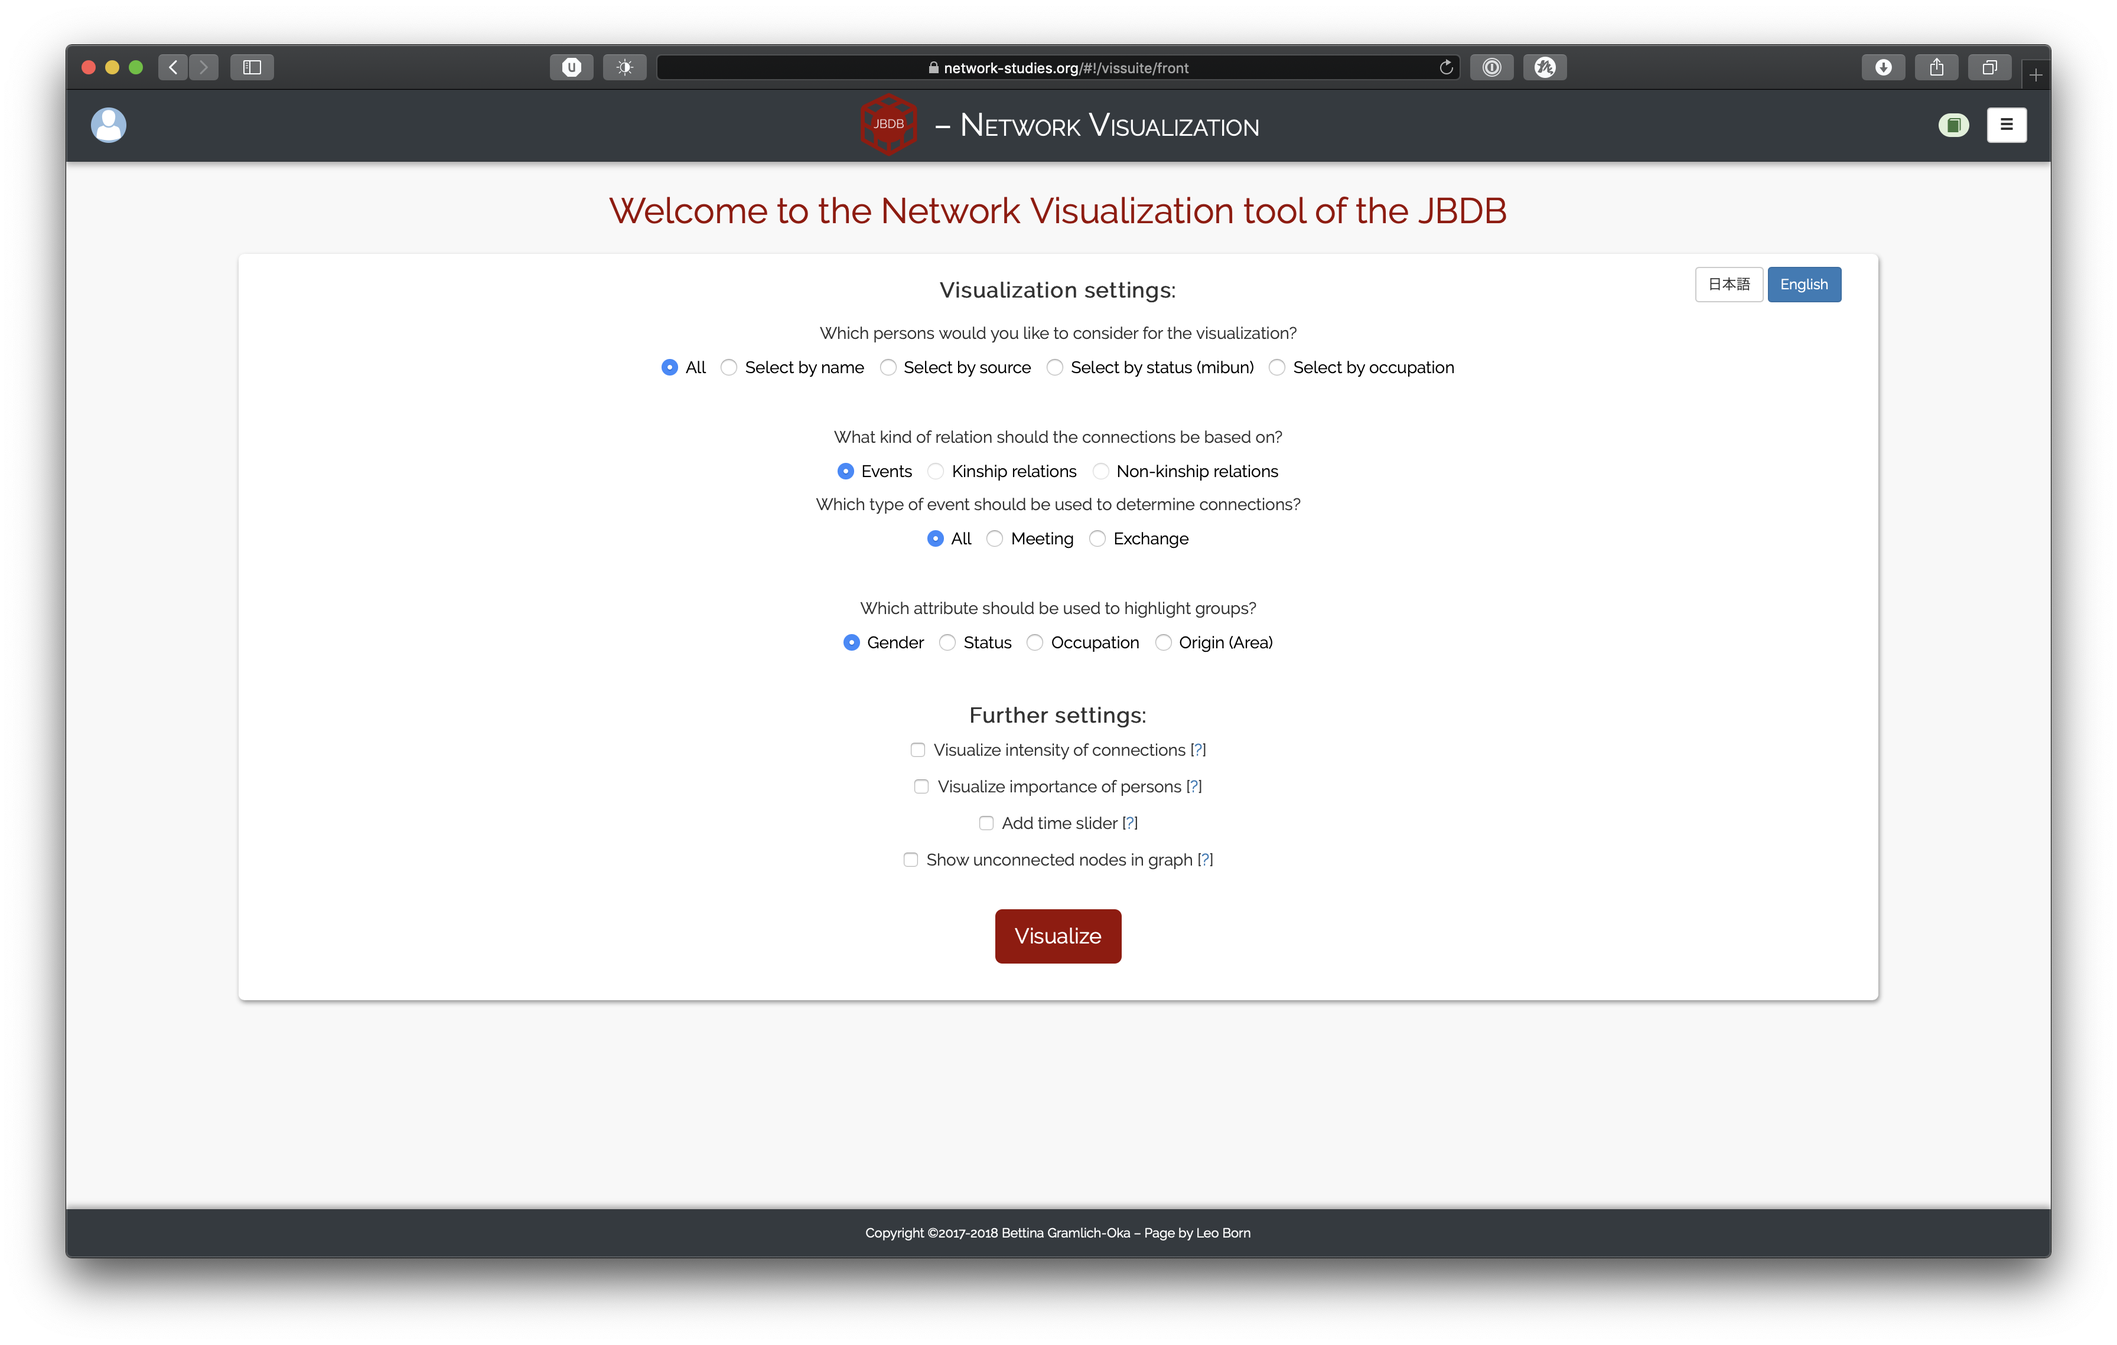
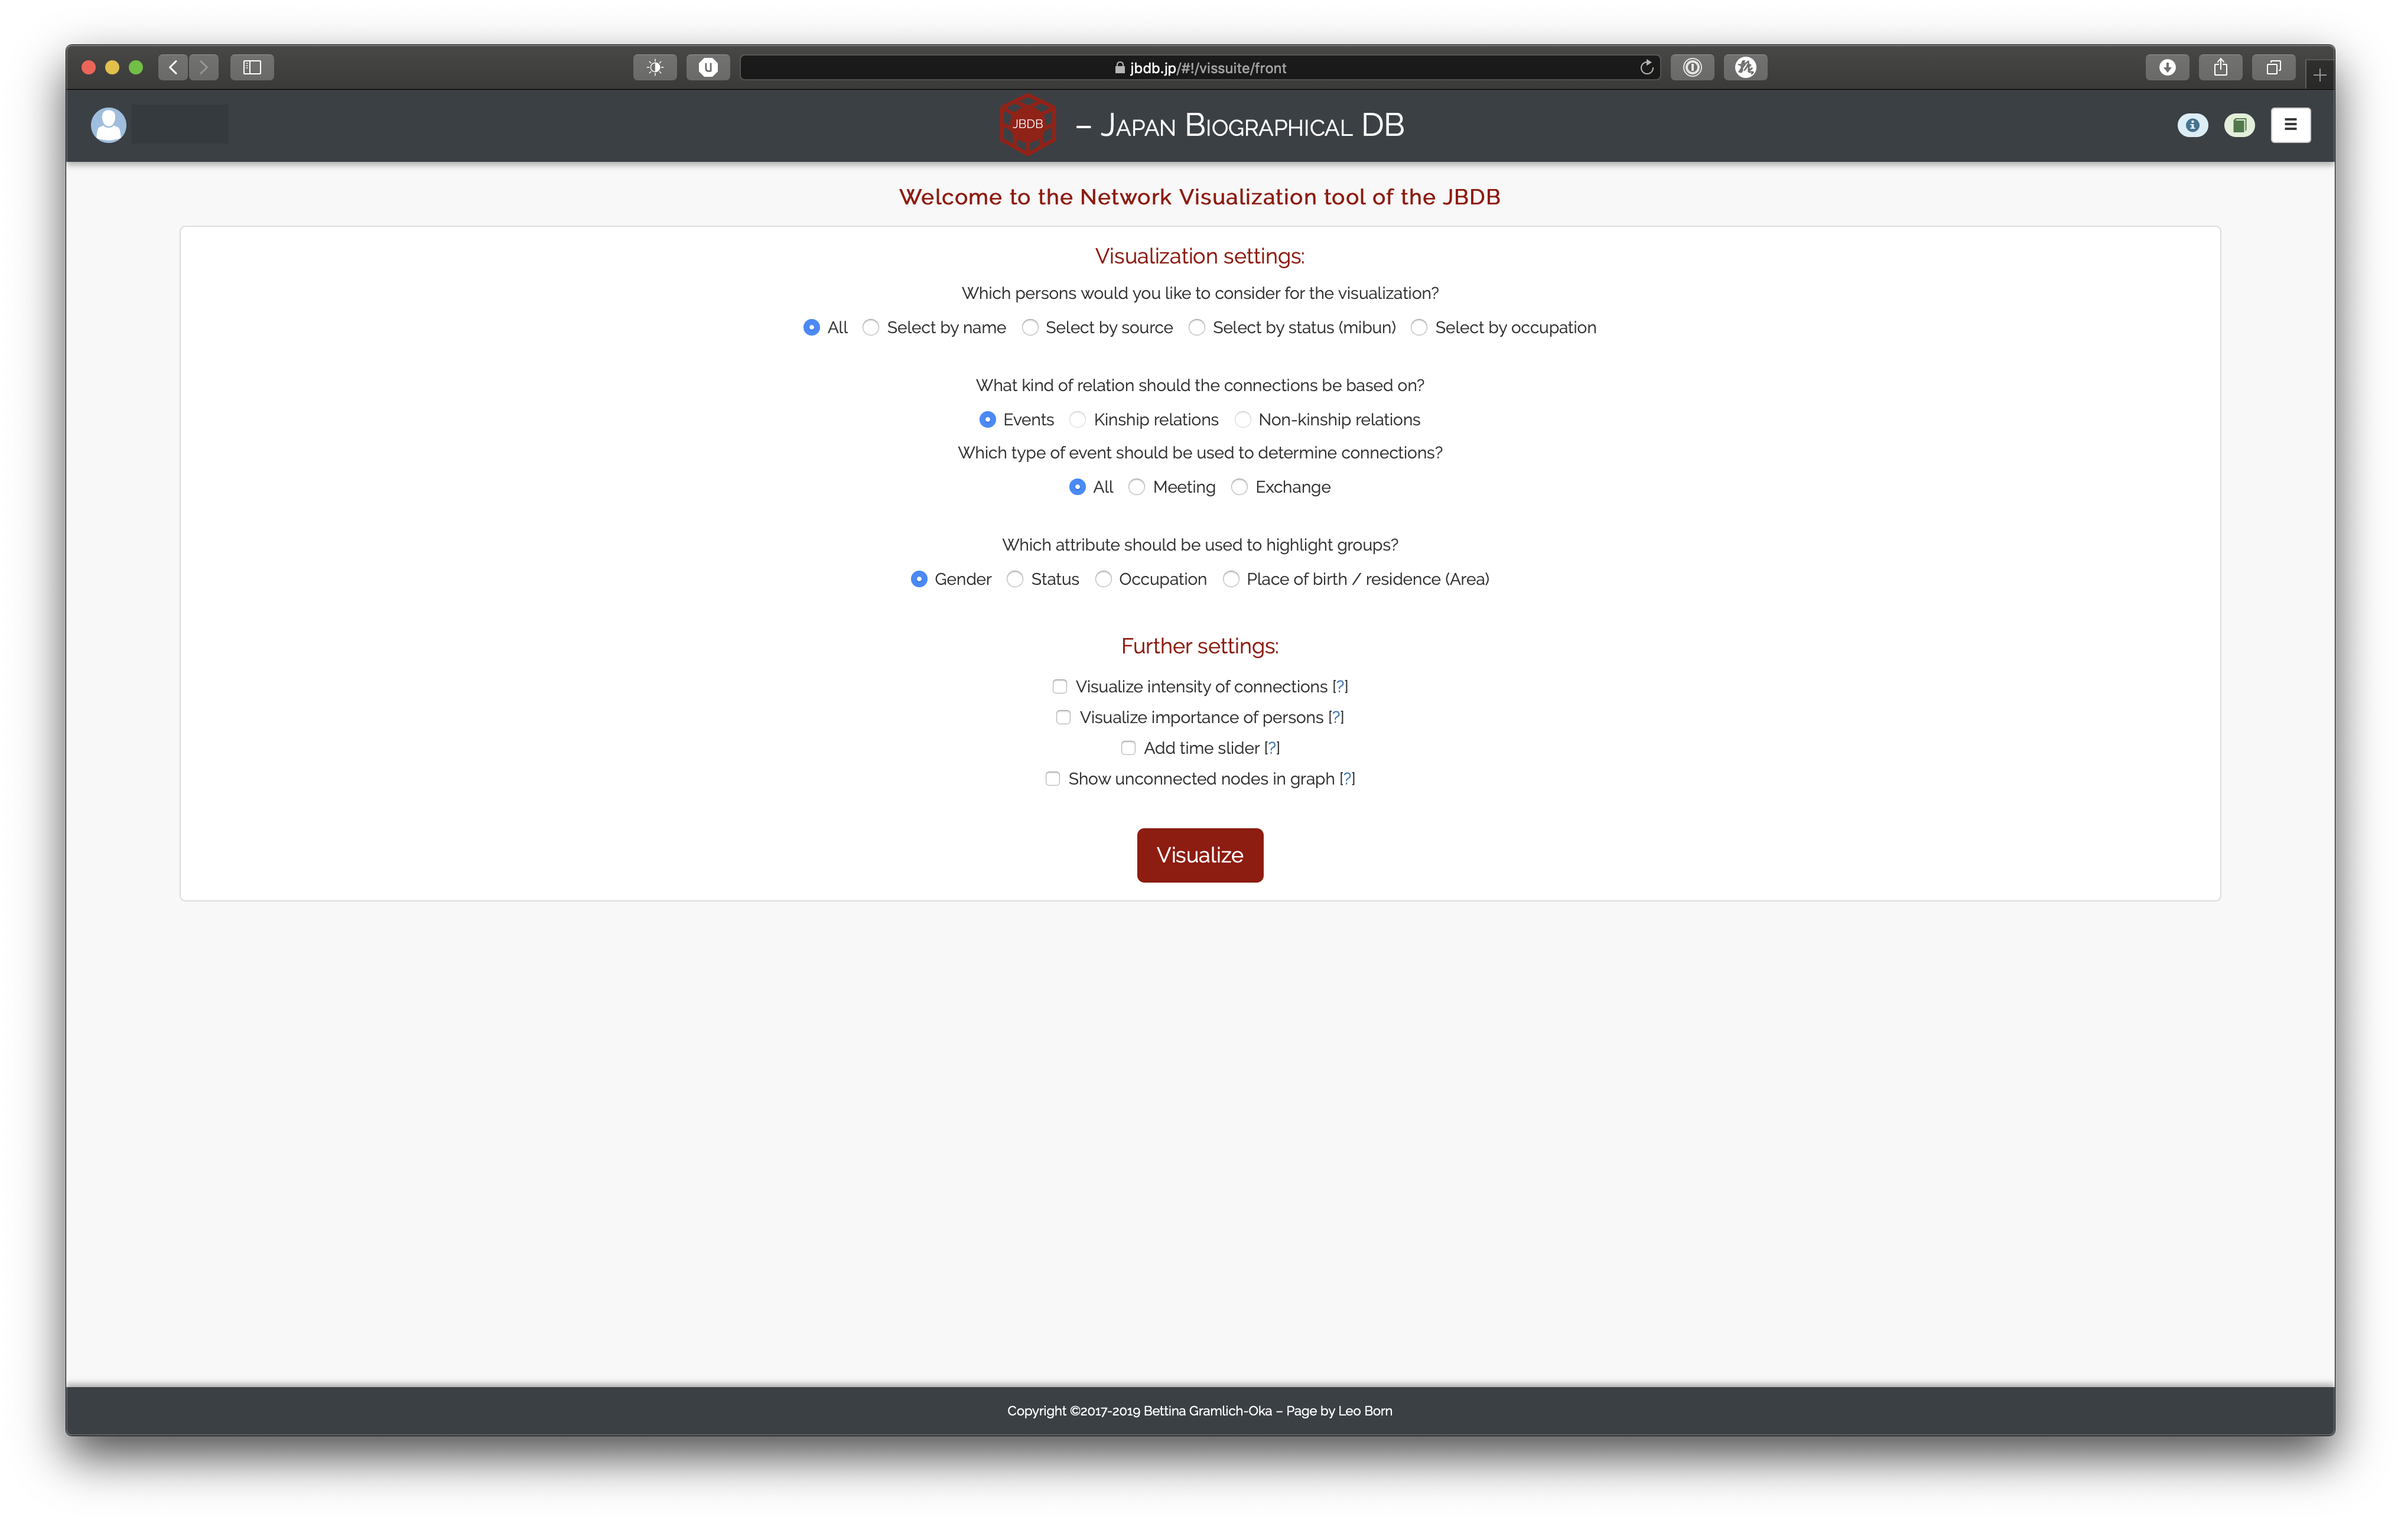
Completed vissettings manual

diff --git a/vissettings.md b/vissettings.md
@@ -9,16 +9,17 @@ subtitle: Settings
 1. [Who to visualize?](#who-to-visualize)
 2. [What to visualize?](#what-to-visualize)
 3. [How to visualize?](#how-to-visualize)
+4. [Examples](#examples)
 
 <br>
 
 ## Intro
 
-This page covers the functionality of the [visualization suite of the JBDB](https://network-studies.org/#!/vissuite/front) and the different ways these visualizations can be generated. When entering this view, you will be presented with the following settings page:
+This page covers the functionality of the [visualization suite of the JBDB](https://jbdb.jp/#!/vissuite/front) and the different ways these visualizations can be generated. When entering this view, you will be presented with the following settings page:
 
 ![Vissettings](../img/vissettings.png)
 
-Broadly speaking, there are three important sections to the settings view: the first concerns the persons one is interested in visualizing (who to visualize?); the second is about what to base the visualizations on (what to visualize?); and the third is concerned with how the visualizations should look in the end (how to visualize?).
+Broadly speaking, there are three important sections to the settings view: the first concerns the persons one is interested in visualizing ([who to visualize?](#who-to-visualize)); the second is about what to base the visualizations on ([what to visualize?](#what-to-visualize)); and the third is concerned with how the visualizations should look in the end ([how to visualize?](#how-to-visualize)).
 
 This section is therefore structured in a way to reflect these three broad questions.
 
@@ -53,13 +54,104 @@ As above, starting from these gathered persons, all connected persons are extrac
 
 ## What to visualize?<a name="what-to-visualize"></a>
 
-The next settings section is concerned with the underlying data that connections should be based on.
+The next settings section is concerned with the underlying data that connections should be based on. For this, the section allows to select events, kinship, or non-kinship relations as the source of visualization:
+
+![Vissettings 5](../img/vissettings-5.png)
+
+The app defaults to "Events", for which you can further specify whether "All" event types should be considered, or only any event of the type "Meeting" or "Exchange". In these cases, the app gets all events the _seed persons_ were part of and further gathers all other non-seed persons who partook in these events. This way, you get e.g. all persons with whom Rai Shunpū interacted (if "All" is set) or all persons with whom he exchanged goods or correspondences (if "Exchange" is set).
+
+---
+
+If you select (non-)kinship relations to be the base of the visualization, the app gets all associated (non-)kinship relations for the _seed persons_ and displays them in a tree-like hierarchical order. **Note** that (non-)kinship relations are not selectable if you set "All" in the [who to visualize?](#who-to-visualize) section.
+
+The finer selection works differently than for events. If you select (non-)kinship relations, you are presented with a slider as follows:
+
+![Vissettings 6](../img/vissettings-6.png)
+
+The slider allows you to set the maximal distance from the _seed persons_ of related persons. 1 indicates that only people directly related to the _seed persons_ are considered. For example, if we are interested in a family tree for Rai Shunsui, setting the distance to 1 would only include the persons with whom Rai Shunsui has kinship relations (as seen when displaying [his information page](https://jbdb.jp/#!/jbdb/database/person/0)).
+
+However, setting the distance to 2 now also considers persons with whom the related people of Rai Shunsui are related, even if they are not directly related to him. Similarly, increasing the distance will widen the scope of the resulting visualization.<sup id="a3">[3](#f3)</sup>
+
+### Notes on some limitations
+
+Note that for kinship relations, currently only relations spanning at most one level (e.g. sister, father, niece) are considered for the visualizations. Therefore, any relation spanning two or more levels (or generations), like _grandfather of_ are not supported due to computational limitations in determining the position of the persons within the hierarchy.
+
+Furthermore, there will only be displayed one relation between any two people in order to reduce clutter. If person **A** is the brother of person **B**, person **B** is automatically set to be the sibling (brother or sister) of person **A** as well (cf. [note on complementary relations](https://japan-biographical-db.github.io/persons/complementary-relations)). However, displaying both relations would not benefit the expressivity of the resulting visualizations. Therefore, we drop one of the two relations (at random).
+
+This also means that multiple different relations between any two people are also not considered. For example, if the niece **N** of some person **P** becomes the wife of said person **P**, we will ignore one of the two relations. While these relations are historically informed, they are currently too complex to handle in an efficient manner.
+
+Additionally, implicit relations are not considered as well, i.e. if the database contains information that person **C** is the father of person **D**, **D** is the father of **E**, but _does not_ contain explicit information that **C** is therefore the grandfather of **E**, the app does not attempt to induce this relation.
 
 ## How to visualize?<a name="how-to-visualize"></a>
 
+After determining what to visualize, we can concentrate on some means of changing the way data is visualized. The first selection component is fairly simple and allows you to choose an attribute that is used to group the persons by:
+
+![Vissettings 7](../img/vissettings-7.png)
+
+The selected attribute allows to show or hide these specific groups from the visualization in the [visualization view](https://japan-biographical-db.github.io/visualizations). Therefore, if you select "Gender" you can choose to only display all female persons in a network, or if you select "Occupation", you can choose to show all persons except scholars.
+
+The next selection of settings are fairly intuitive as well. **Note**, however, that these settings are not available when you base your visualization on (non-)kinship relations:
+
+![Vissettings 8](../img/vissettings-8.png)
+
+Selecting "Visualize intensity of connections" thickens edges (i.e. connections) between two people. The more connections there are between any two persons compared to the other connections, the thicker the edge between these persons will be drawn.
+
+Selecting "Visualize importance of persons" does something similar depending on the total number of connections of any single person. Therefore, if person **A** has more conncetions than person **B**, person **A** will be shown larger. If you select this, you can choose one of four different algorithms to determine the size of any person. Please refer to the help boxes (indicated by the question mark next to each algorithm) for details.
+
+The option "Add time slider" will add a temporal slider element to the visualization view. The dates considered for the slider are the first and last dates of the events used to determine the network. If you select this option, you can further choose wether Japanese or Western dates should be displayed.
+
+Selecting the previous two options thus looks as follows:
+
+![Vissettings 9](../img/vissettings-9.png)
+
+The last additional setting that is available for all visualizations based on events is "Show unconnected nodes in graph". This setting is available for all ways of selecting _seed persons_ _except_ "Select by name". Therefore, if the _seed persons_ are determined by a source you select, it could happen that some of the _seed persons_ have no connection in the database. Per default, any person without connection is not shown in the visualization; however, if you expressly wish to display even those singleton persons, you can do so by enabling this option.
+
+**Note** that this option is mutually exclusive with some of the above-mentioned three options:
+
+1. If you enable "Visualize importance of persons", "Show unconnected nodes in graph" becomes disabled (and vice versa)
+2. If you set "Add time slider", "Show unconnected nodes in graph" becomes disabled (and vice versa)
+
+### _Seed person_-specific settings
+
+If you select _seed persons_ by name or by source, additional settings specific to these selections become available. For "Select by name", the additional setting becomes available if you select more than two persons:
+
+![Vissettings 10](../img/vissettings-10.png)
+
+Enabling this will discard persons not in the _seed persons_ list. This is useful if you are only interested in the interactional network of just the persons you select.
+
+---
+
+For "Select by source", the following options become available:
+
+![Vissettings 11](../img/vissettings-11.png)
+
+**They are all mutually exclusive**, therefore only one can be enabled at most. The first setting, "Limit connections to person from source(s)" works similar to the person-specific setting mentioned above. That is, enabling this will only show persons for whom the selected source(s) were set and will discard any connections to persons outside the _seed persons_ list. With this setting, you could for example show only the interactions between all people who appear in the same source.
+
+The second setting considers persons beyond the _seed persons_ list again. This time, however, with the restriction that the underlying events for every connection must come from the source(s) you specified. For example, if you select a diary as the source and enable this setting, it visualizes the interactions described in the diary -- between all persons for whom the diary was set as the source (= _seed persons_) as well as people connected to the _seed persons_, even if the source was not used to create entries for the the other, non-seed persons.
+
+Lastly, the third setting combines the above two mechanisms. This is the most strict one as the resulting network only shows:
+
+1. People for whom the selected source(s) was/were used to create the entry (= _seed persons_)
+2. Connections that are based only on the selected source(s)
+
+Therefore, if you again select a diary for example, the network will show all persons whose biographical information comes from the diary and the connections between those persons will also only be based on interactions described in the diary.
+
+## Examples<a name="examples"></a>
+
+This section presents screenshots of networks resulting from different settings combinations. If you are interested in how to interact with the networks and see what you can do with them, please refer to the [visualization view page](https://japan-biographical-db.github.io/visualizations).
+
+### All persons, based on all events, group highlighting by occupation
+
+![Vis example 1](../img/vis-example-1.png)
+
+### Network of Rai Shunpū and Rai Shizu, based on meetings, group highlighting by gender, intensity of connections, importance of persons (degree centrality), time slider
+
+![Vis example 2](../img/vis-example-2.png)
 
 ---
 
 <b id="f1">1.</b> This search also accounts for alternative names. As in the persons view, they will be marked with an asterisk (*).[↩](#a1)
 
 <b id="f2">2.</b> Be aware, however, that if a person from the seed person list does not have any connections in the DB, it will not be shown in the visualization per default. If you wish to include all such "isolated" persons in the visualizations as well, you must explicitly set the option "Show unconnected nodes in graph" (see the section on [how to visualize](#how-to-visualize)).[↩](#a2)
+
+<b id="f3">3.</b> We stop at 6 because of [this](https://en.wikipedia.org/wiki/Six_degrees_of_separation).[↩](#a3)
